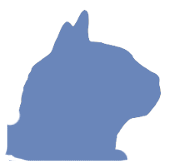
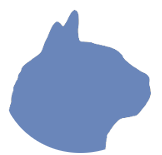
Responsive design

Changed region(s): [[0.0309, 0.0516, 0.9568, 1.0], [0.679, 0.6194, 0.9259, 0.8516]]

diff --git a/css/cat.css b/css/cat.css
@@ -1,53 +1,158 @@
 @font-face {
 	font-family: 'Albert';
-	src: url('../font/AlbertsthalTypewriter.ttf');
+	src        : url('../font/AlbertsthalTypewriter.ttf');
 }
 
 body {
 	margin: 0;
-	color: white;
-	height: 100%;
+	color : white;
 }
 
 header {
 	background: #6a86ba;
 }
 
+/*
+ * Header
+ */
 header .ui.header {
-	display: inline-block;
-	position: absolute;
-	margin-top: 2.5%;
-	margin-left: 2%;
-}
-
-header .ui.header {
-	font-size: 3.5em;
 	font-family: 'Albert';
+	display    : inline-block;
+	position   : absolute;
 }
 
+/*
+ * Sub-header
+ */
 header .ui.header .sub.header {
-	font-size: 0.35em;
-	color: white;
+	font-size  : 0.35em;
+	color      : white;
 	font-family: 'Monospace';
 }
 
-#logo {
-	margin-left: 4%;
-	margin-top: 1%;
-}
-
-#paint {
-	margin: 0;
-	position: absolute;
-	margin-top: 165px;
-	margin-left: 50%;
-}
-
-.container {
+section {
 	text-align: center;
 }
 
-.ui.button {
-	color: white;
+/*
+ * Blue paint leak
+ */
+#paint {
+	margin  : 0;
+	z-index : 1;
+	position: absolute;
+	display : inline-block;
+}
+
+/*
+ * Meow button
+ */
+#ncat {
+	color     : white;
 	background: #6a86ba;
+	margin-top: 3%;
+}
+
+/*
+ * Cat gif container
+ */
+#wrap {
+	margin-top: 5%;
+	display   : inline-block;
+}
+
+/*
+ * Cat gif
+ */
+#wrap img {
+	max-width : 100%;
+	height: auto;
+}
+
+/*
+ * Cat logo
+ */
+#logo {
+	display: inline-block;
+}
+
+/*
+ * Small screen
+ */
+@media (max-width: 450px) {
+	header .ui.header {
+		font-size  : 1.60em;
+		margin-top : 5%;
+		margin-left: 2%;
+	}
+
+	#logo {
+		width           : 81px;
+		height          : 78px;
+		margin-left     : 4%;
+		margin-top      : 1%;
+		background-image: url('../img/cat-mini.png');
+	}
+
+	#paint {
+		width           : 35px;
+		height          : 44px;
+		margin-top      : 80px;
+		margin-left     : 60%;
+		background-image: url('../img/paint-mini.png');
+	}
+}
+
+/*
+ * Medium screen
+ */
+@media (min-width: 450px) and (max-width: 700px) {
+	header .ui.header {
+		font-size  : 2.5em;
+		margin-top : 1%;
+		margin-left: 2%;
+	}
+
+	#logo {
+		width           : 81px;
+		height          : 78px;
+		margin-left     : 4%;
+		margin-top      : 1%;
+		background-image: url('../img/cat-mini.png');
+	}
+
+	#paint {
+		width           : 35px;
+		height          : 44px;
+		margin-top      : 80px;
+		margin-left     : 65%;
+		background-image: url('../img/paint-mini.png');
+	}
+}
+
+/*
+ * Large screen
+ */
+@media (min-width: 700px) {
+	header .ui.header {
+		font-size  : 3.5em;
+		margin-top : 2.5%;
+		margin-left: 2%;
+	}
+
+	#logo {
+		width           : 162px;
+		height          : 155px;
+		margin-left     : 4%;
+		margin-top      : 1%;
+		background-image: url('../img/cat.png');
+	}
+
+	#paint {
+		width           : 69px;
+		height          : 87px;
+		margin-top      : 165px;
+		margin-left     : 50%;
+		background-image: url('../img/paint.png');
+	}
 }

diff --git a/index.html b/index.html
@@ -1,29 +1,28 @@
 <!DOCTYPE html>
 <html>
 <head>
-	<title>A cat factory</title>
 	<meta name="viewport" content="width=device-width, initial-scale=1.0"/>
 	<link rel="stylesheet" href="vendors/semantic/css/semantic.min.css"/>
+	<link rel="icon" type="image/png" href="img/favicon.png"/>
 	<link rel="stylesheet" href="css/cat.css"/>
+
+	<title>A cat factory</title>
 </head>
 <body>
 	<header>
-		<img id="logo" src="img/cat.png" alt="cat head">
+		<div id="logo"></div>
 		<h2 class="ui header">
 			A cat factory
 			<p class="sub header">Since nine-meow sixty-meow</p>
 		</h2>
-		<img id="paint" src="img/paint.png" alt="paint dirt">
+		<div id="paint"></div>
 	</header>
 
 	<section>
-		<div class="container">
-			<div id="wrap">
-			</div>
-			<button id="ncat" class="ui button" onclick="ncat()">
-				Meow !
-			</button>
+		<div id="wrap">
 		</div>
+		<br/>
+		<button id="ncat" class="ui button" onclick="ncat()">Meow !</button>
 	</section>
 
 	<script src="js/cat.js"></script>
